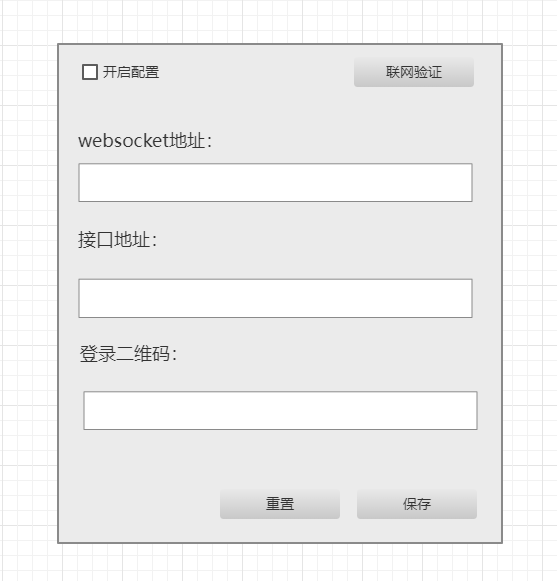
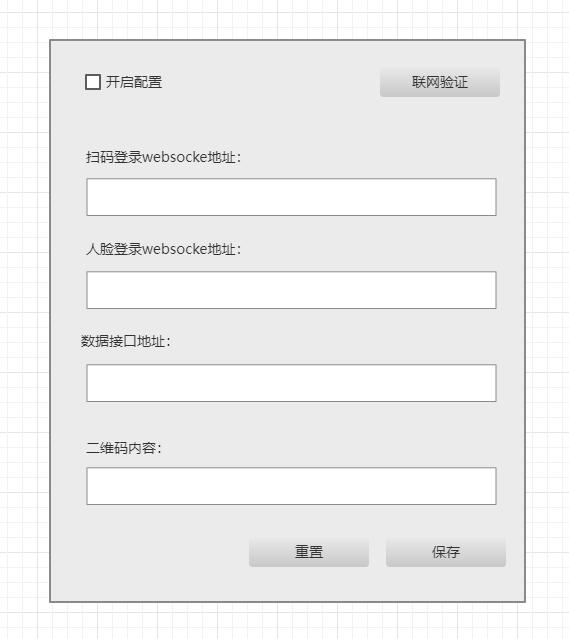
增加人脸识别说明

Changed region(s): [[0.061, 0.031, 0.9461, 0.9604], [0.0, 0.8985, 0.0305, 0.9294], [0.0, 0.7745, 0.0305, 0.8055]]

diff --git a/third/deviceToThird.md b/third/deviceToThird.md
@@ -16,9 +16,9 @@
 - 输入登录二维码,例如 http://www.eliga.cn/api/userlogin?Sn=T232-0001
 - 点击保存按钮
 
-## 登录接入流程
+## 扫码登录接入流程
 
-- 设备初始化完成，与配置的websocket地址建立websocket连接
+- 选择扫码登录，与配置的websocket地址建立websocket连接
 - 第三方app扫描登录二维码，app调用二维码中的登录登陆链接，发送登录请求到第三方服务
 - 第三方服务收到登录请求，验证登录者身份，验证成功后通过websocket连接将登录成功的消息发送给设备
 - 设备收到登录成功信息后，进入设备主界面
@@ -39,6 +39,44 @@
 }
 ```
 
+## 人脸登录接入流程
+
+- 选择人脸登录，与配置的websocket地址建立websocket连接
+- 服务器连接成功，发送开始人脸识别命令,格式如下：
+```json
+{
+    "code":"start"
+}
+```
+- 客户端收到开始命令后，发送人脸图片给服务器，格式如下：
+```json
+{
+    "image":"base64格式"
+}
+```
+- 服务器人脸认证成功，发送认证成功信息：
+```json
+{
+    "code":"ok",
+    "message":"人脸认证成功",
+    "data": {
+        "userId": 12, // 用户唯一标识
+        "name":"运动员12", // 用户名称
+        "avatar":"https://www.eliga.cn/head/12.png", // 头像
+        "height": 170, // 身高
+        "weight": 60, // 体重
+        "sex": 1, // 性别 0 男  1 女
+        "age":30 // 年龄
+    }
+}
+```
+- 服务器人脸认证失败，发送认证失败信息：
+```json
+{
+    "code":"error",
+    "message":"人脸认证失败"
+}
+```
 
 ## 数据接入流程
 
